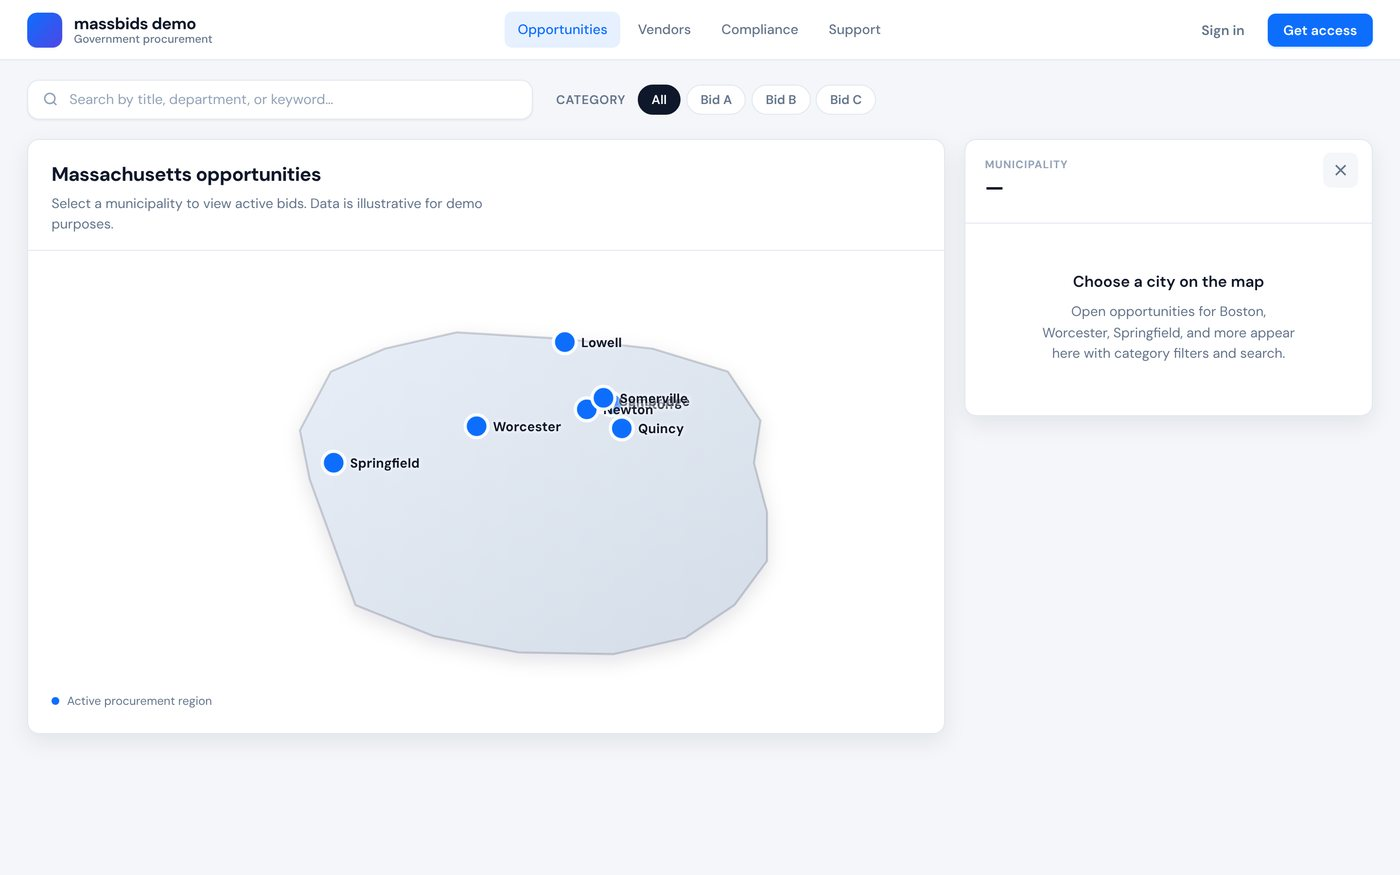
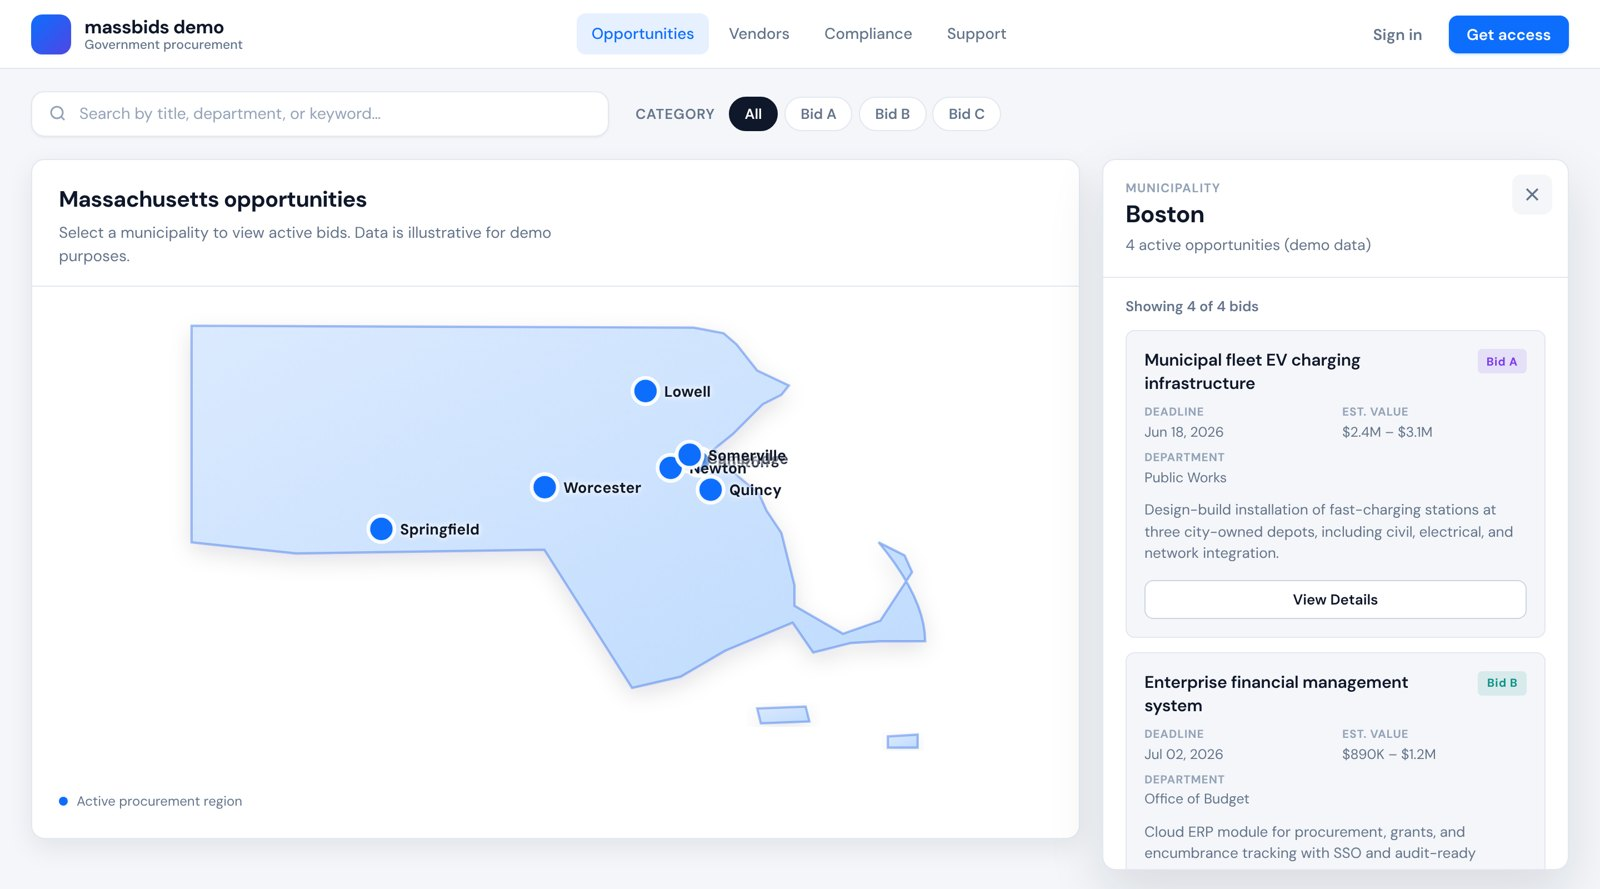
MassBids: new screenshot with Boston selected
Claude-Session: https://claude.ai/code/session_01LupimvDmJC23F5Xo1uMZ6X

diff --git a/content.js b/content.js
@@ -384,7 +384,7 @@ window.CONTENT = {
         tone: "noon",
         pitch: "Zillow, but for local government contracts in Massachusetts.",
         body: "A clickable demo of the idea: pick a city on the map to see its open bids, then filter by category or search. The data in the demo is illustrative.",
-        images: [{ src: "assets/projects/massbids.jpg", alt: "MassBids demo showing a map of Massachusetts with Boston-area cities and a bid detail panel" }],
+        images: [{ src: "assets/projects/massbids.jpg", alt: "MassBids demo: a map of Massachusetts with city pins, and Boston selected in the side panel showing 4 active opportunities (demo data), starting with a municipal fleet EV charging bid" }],
         links: [{ label: "Try the demo", href: "massbids/" }],
       },
       {
